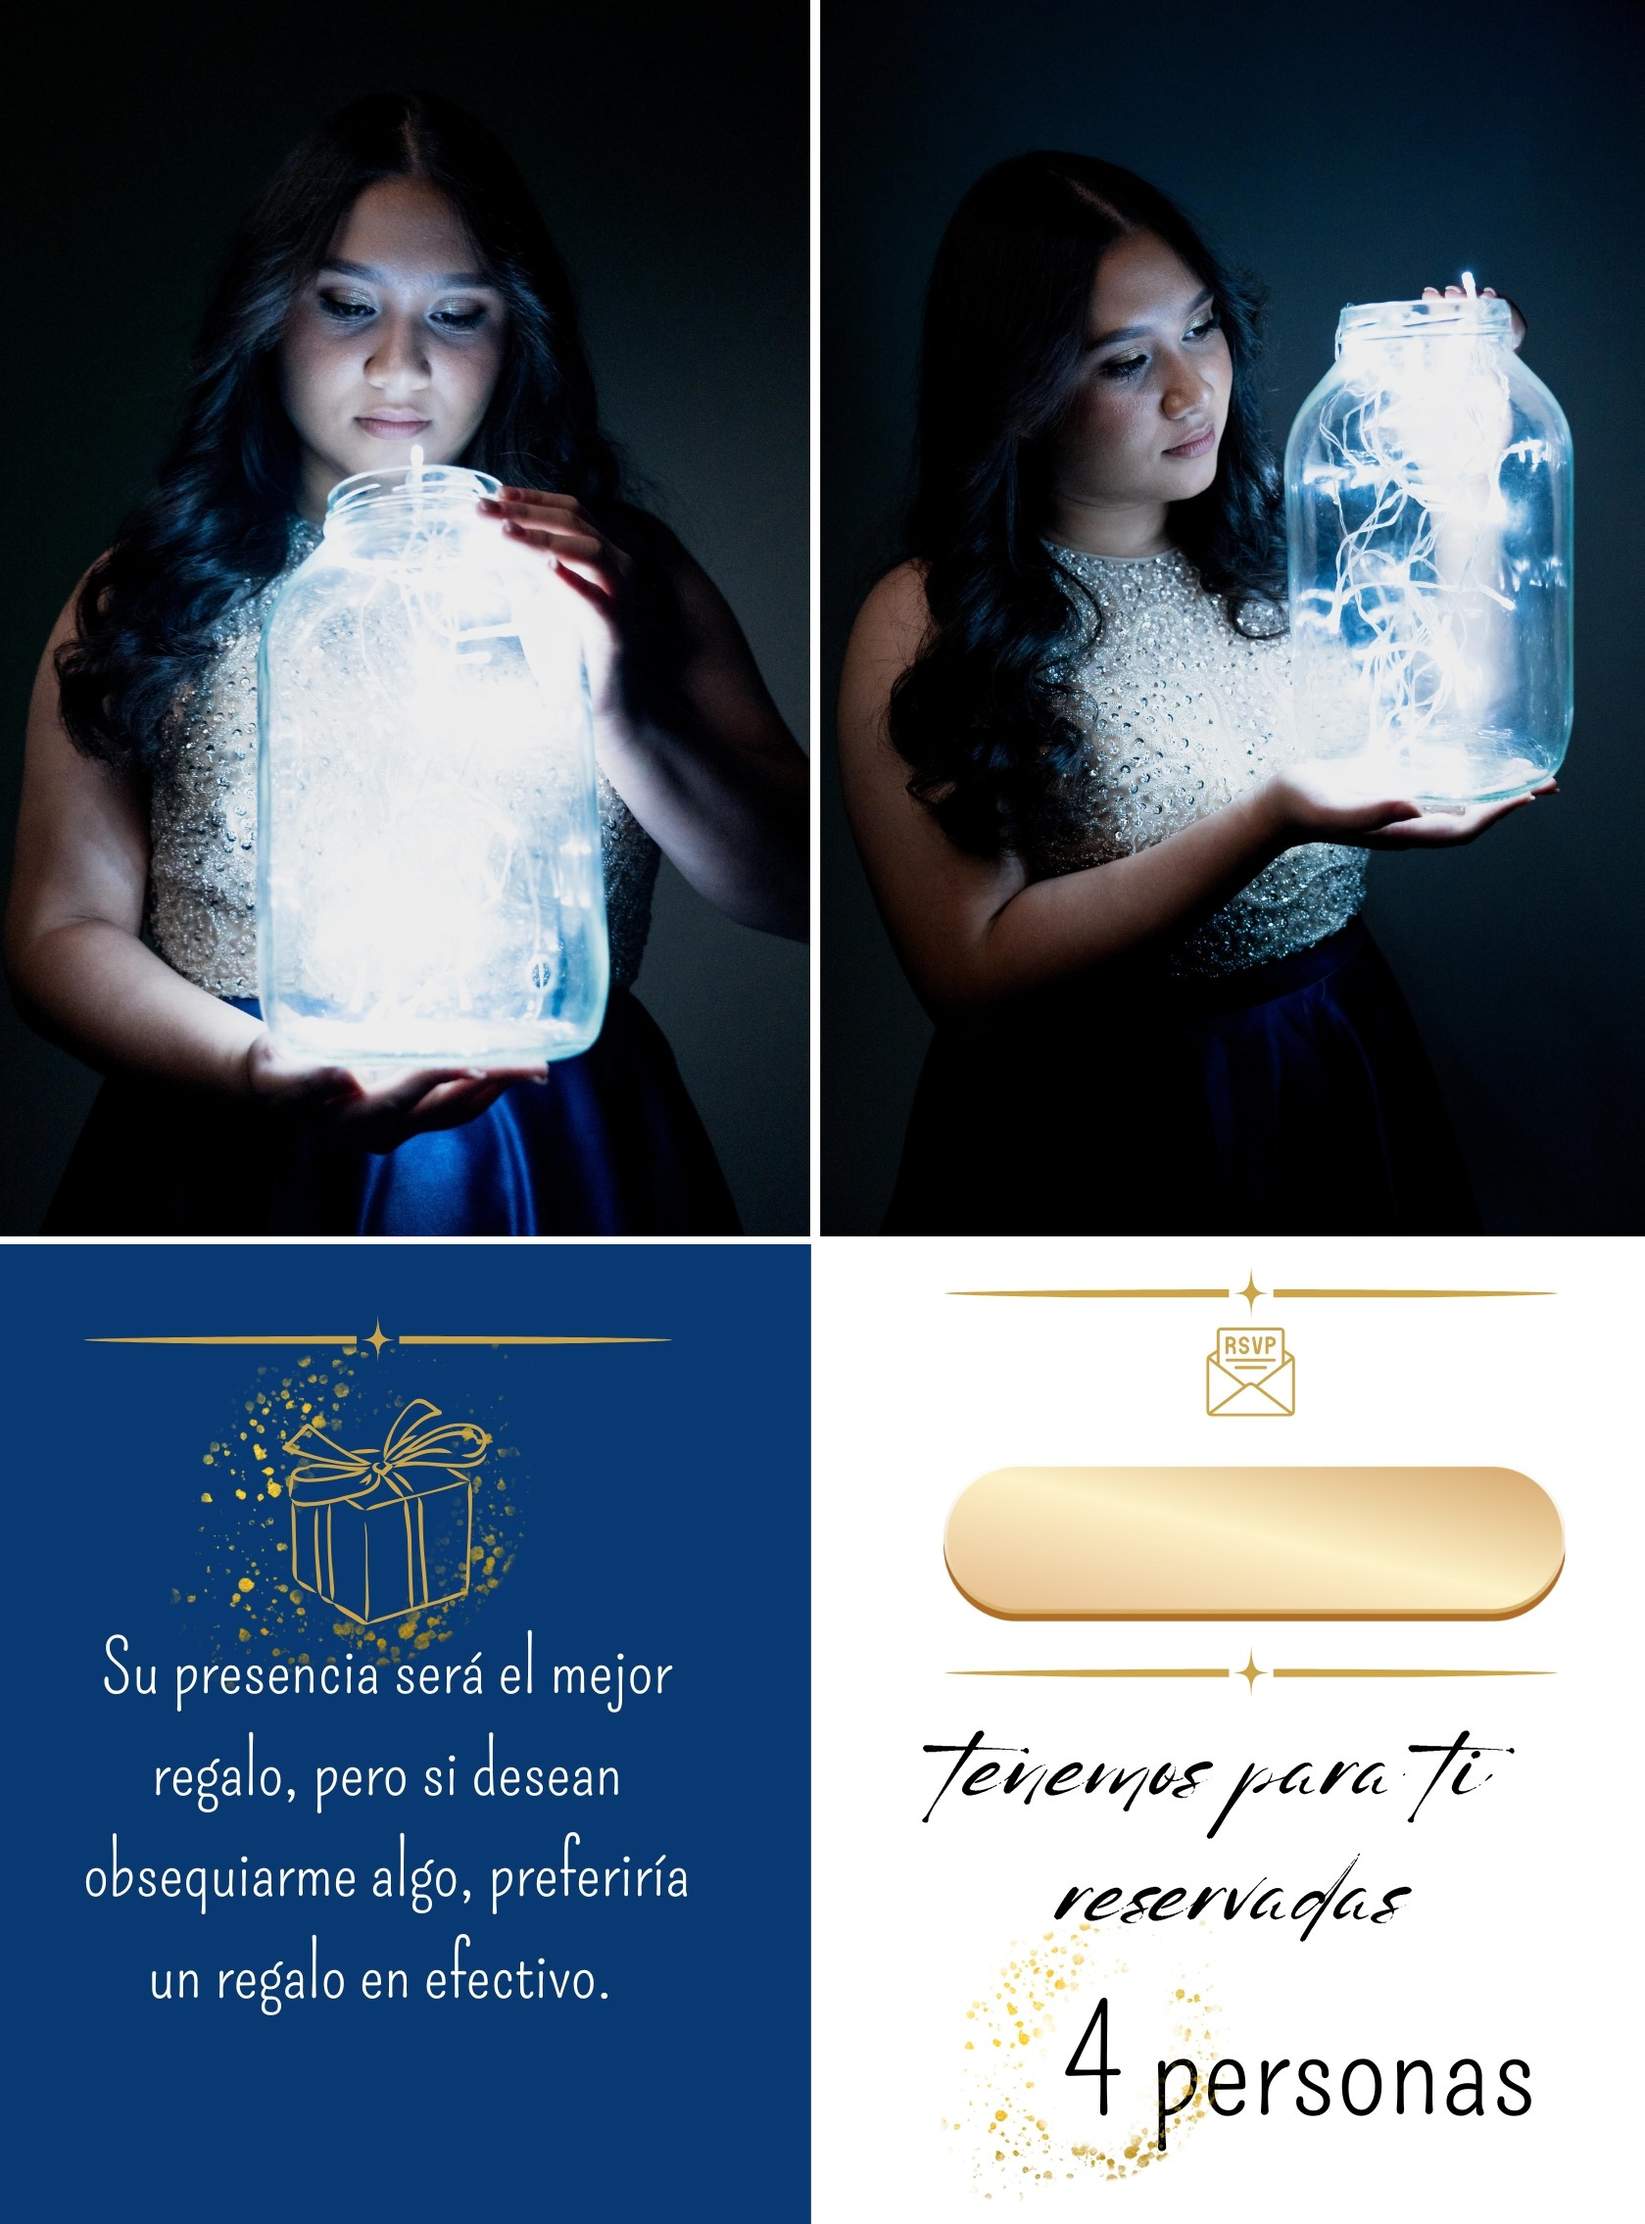
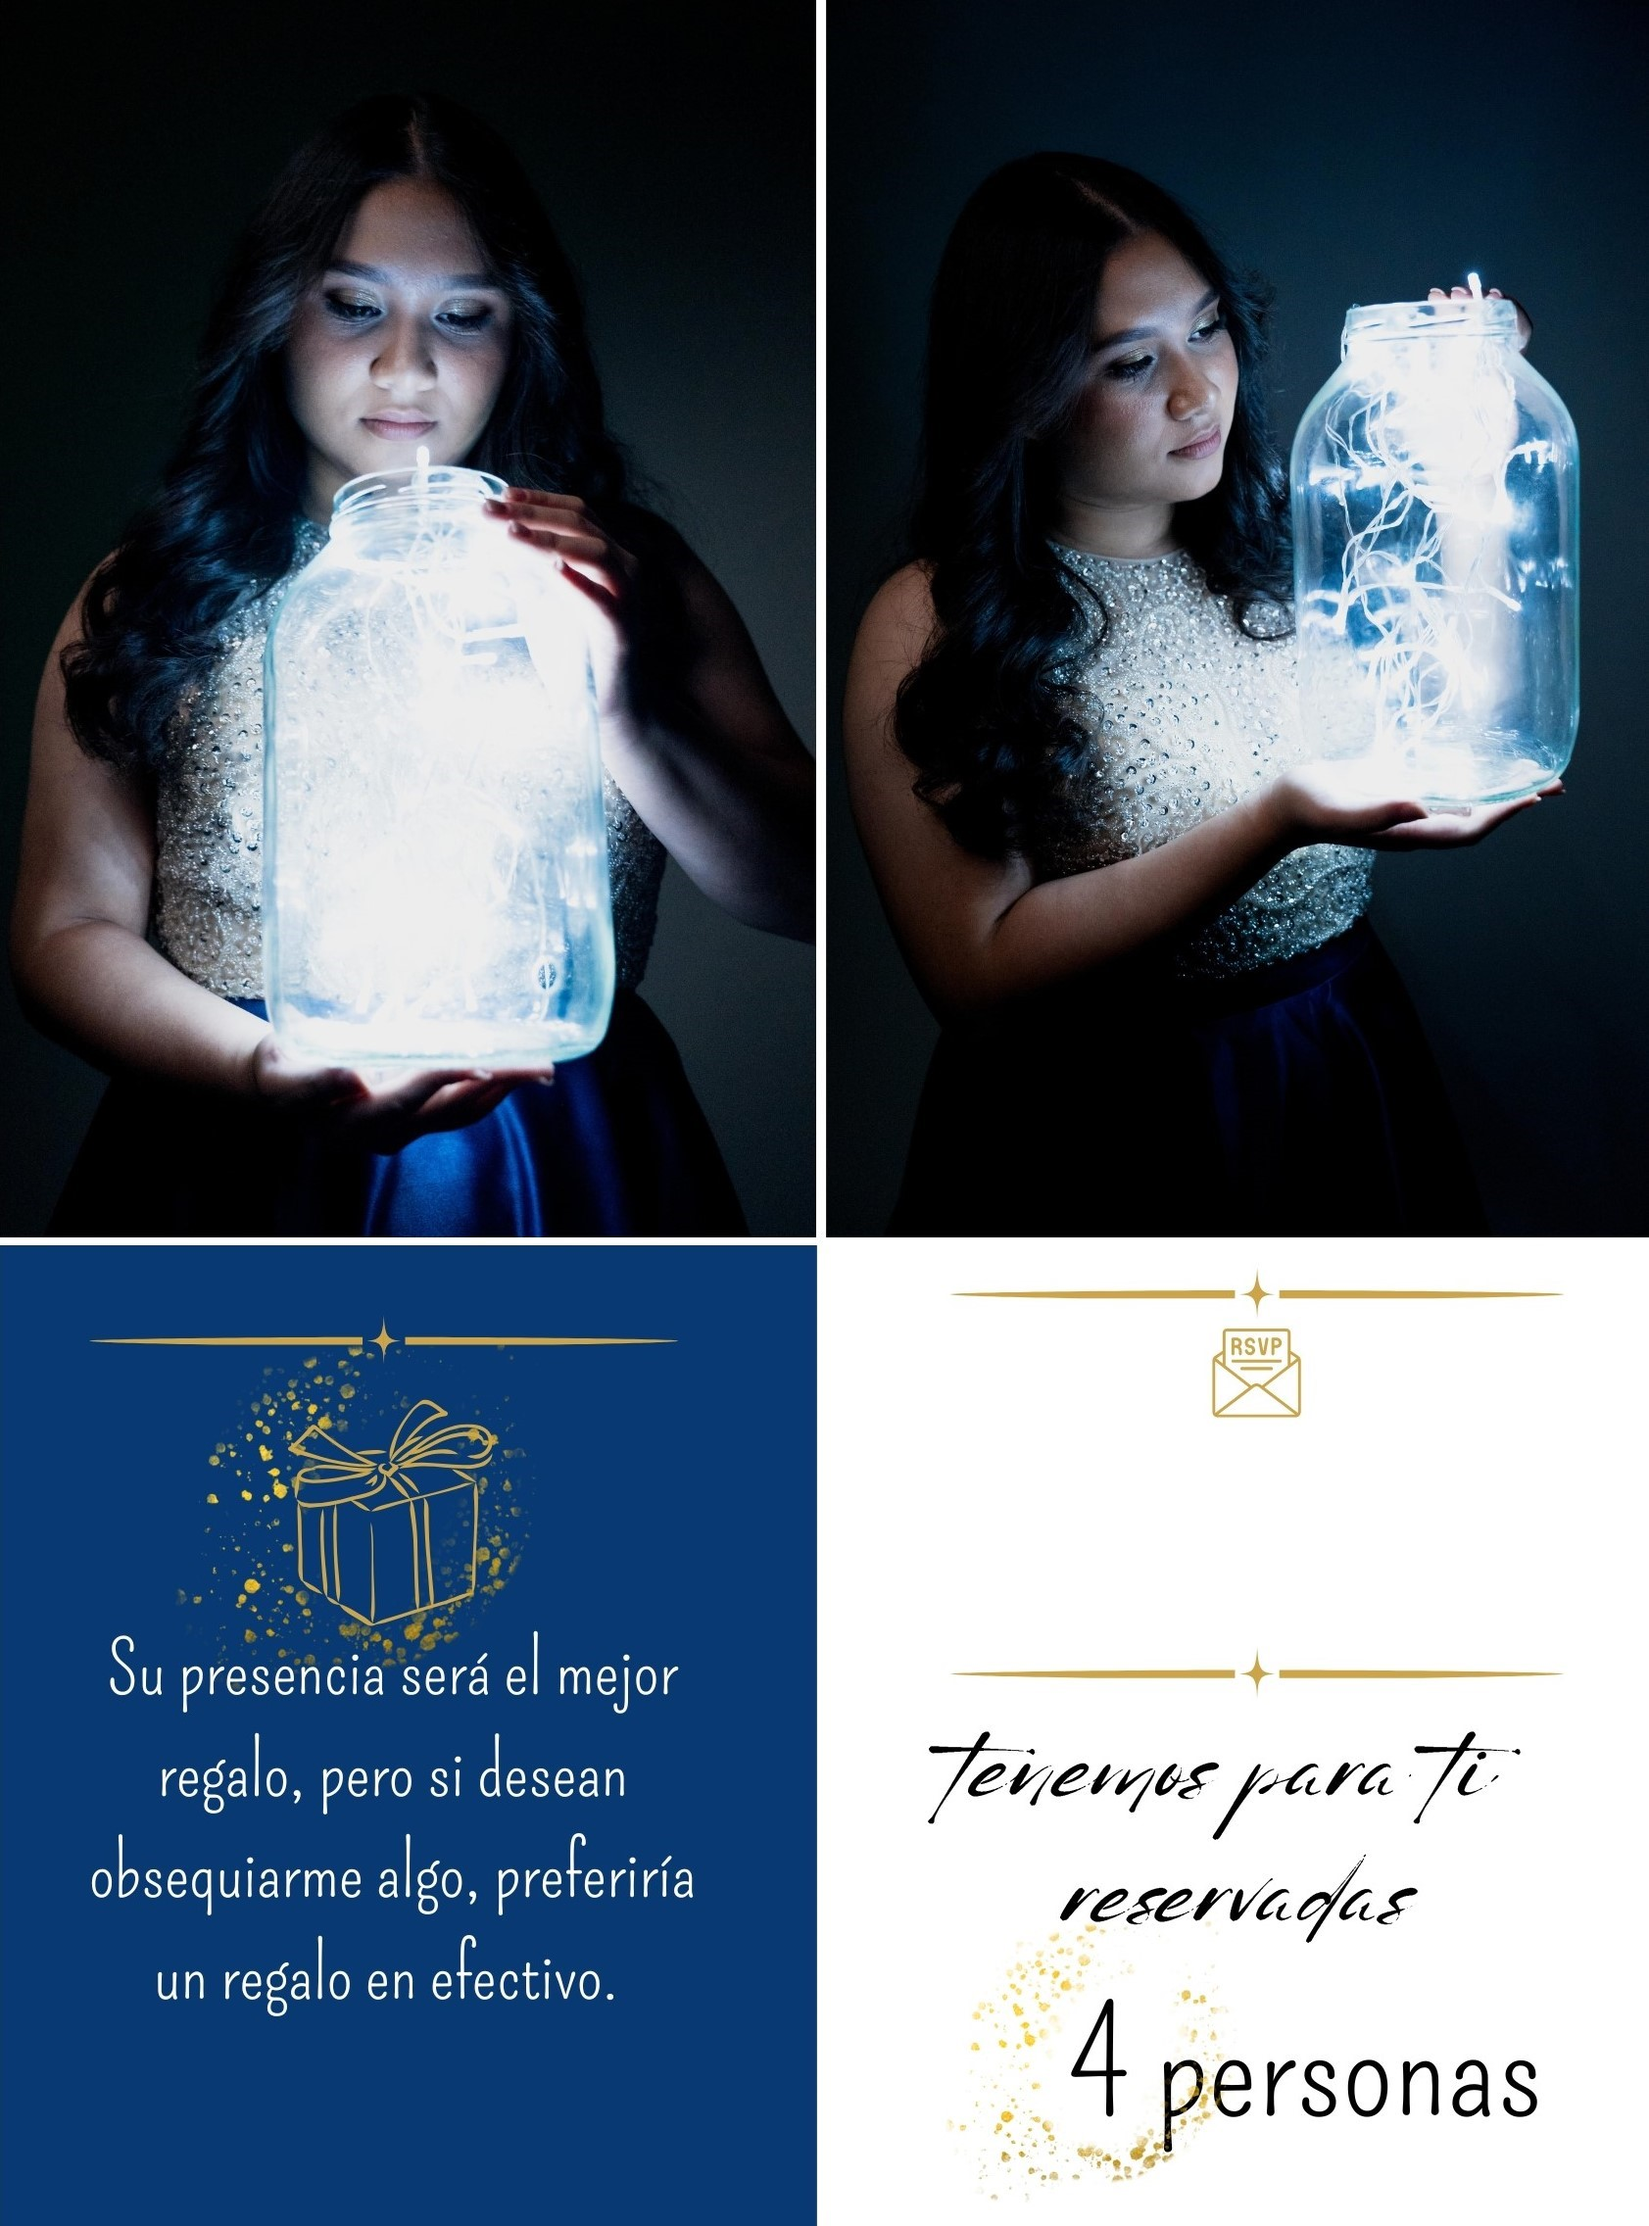
Add files via upload

diff --git a/css/style.css b/css/style.css
@@ -419,7 +419,7 @@ a.de-button.large.rounded, span.de-button.large.rounded, input[type=submit].larg
     padding: 10px;
     border-radius: 1px;
     text-decoration: none;
-    color: #333;
+    color: rgb(255, 255, 255);
     font-size: 25px;
     font-weight: bold;
     z-index: 1;
@@ -427,18 +427,19 @@ a.de-button.large.rounded, span.de-button.large.rounded, input[type=submit].larg
 
     .enlace-sobre-imagen1 {
         position: absolute;
-        bottom: 17vh;
-        left: 88%;
-        transform: translateX(-88%);
+        bottom: 18vh;
+        left: 98%;
+        transform: translateX(-98%);
         padding: 10px 5px; /* Reducir el padding para evitar que ocupe más espacio */
         border-radius: 1px;
         text-decoration: none;
-        color: #333;
+        color: black;
         font-size: 10px;
         font-weight: bold;
         z-index: 1;
         letter-spacing: 0px;
         white-space: nowrap; /* Evita que el texto se divida en dos líneas */
+        
 
         }
 
@@ -495,7 +496,7 @@ a.de-button.large.rounded, span.de-button.large.rounded, input[type=submit].larg
 
     /* Botones */
     .de-button {
-        padding: 8px 20px;
+        padding: 7px 18px;
         font-size: 12px;
     }
     /* Enlaces superpuestos en imágenes */
@@ -536,7 +537,7 @@ a.de-button.large.rounded, span.de-button.large.rounded, input[type=submit].larg
 
     /* Ajustar botones para pantallas pequeñas */
     .de-button {
-        padding: 6px 16px;
+        padding: 5px 15px;
         font-size: 10px;
     }
 

diff --git a/index.html b/index.html
@@ -69,7 +69,7 @@
             <div style="position: relative;">
                 <a href="img/DS0002.jpg" class="swipebox" title="My Caption" target="_blank">
                     <img src="img/DS0002.jpg" alt="image" class="img-fluid">
-                    <a href="https://maps.app.goo.gl/dHMfErYiFaTecZC69" class="enlace-sobre-imagen">Ver ubicación</a>
+                    <a href="https://maps.app.goo.gl/dHMfErYiFaTecZC69" class="enlace-sobre-imagen de-button small rounded">Ver ubicación</a>
                 </a>
             </div>
         </div>
@@ -89,7 +89,7 @@
         <div style="position: relative;">
             <a href="img/DS0004.jpg" class="swipebox" title="My Caption" target="_blank">
                 <img src="img/DS0004.jpg" alt="image" class="img-fluid">
-                <a href="https://api.whatsapp.com/send?phone=+50240357590&text=Hola%20quiero%20confirmar%20mi%20asistencia%20%F0%9F%8E%8A%F0%9F%A5%B3" class="enlace-sobre-imagen1">Confirmar Asistencia</a>
+                <a href="https://api.whatsapp.com/send?phone=+50240357590&text=Hola%20quiero%20confirmar%20mi%20asistencia%20%F0%9F%8E%8A%F0%9F%A5%B3" class="enlace-sobre-imagen1 de-button small rounded">Confirmar Asistencia</a>
             </a>
         </div>            
 
